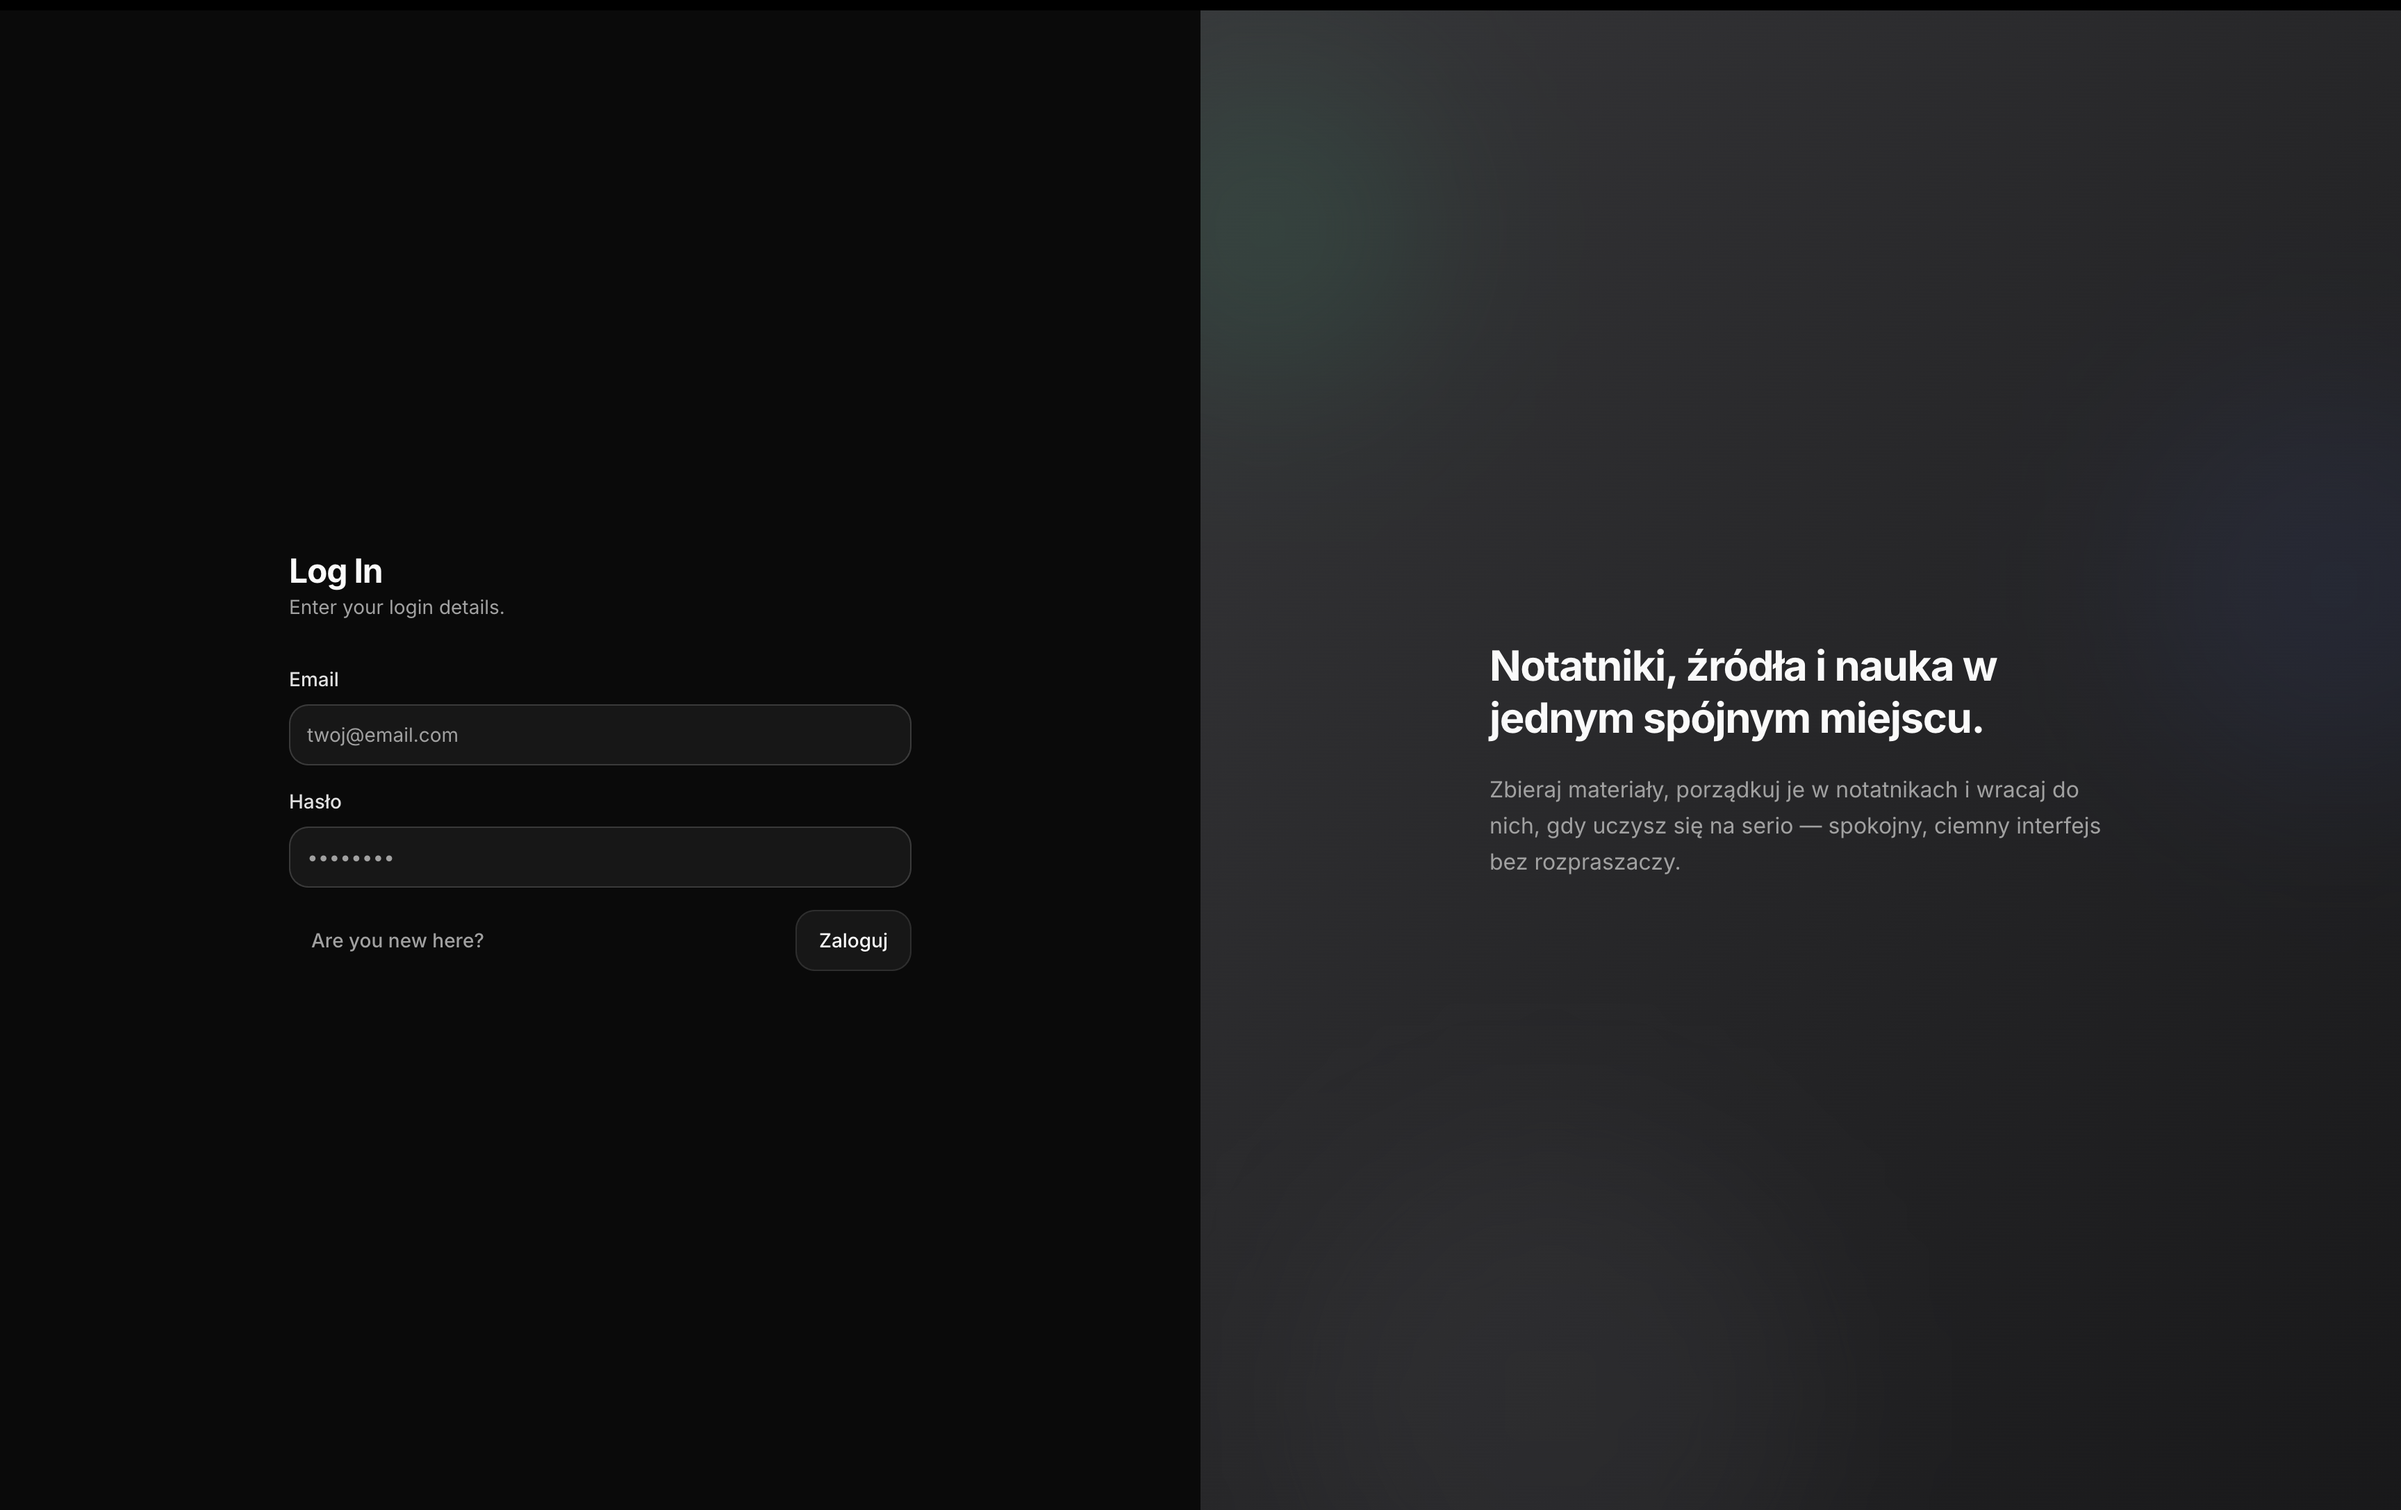
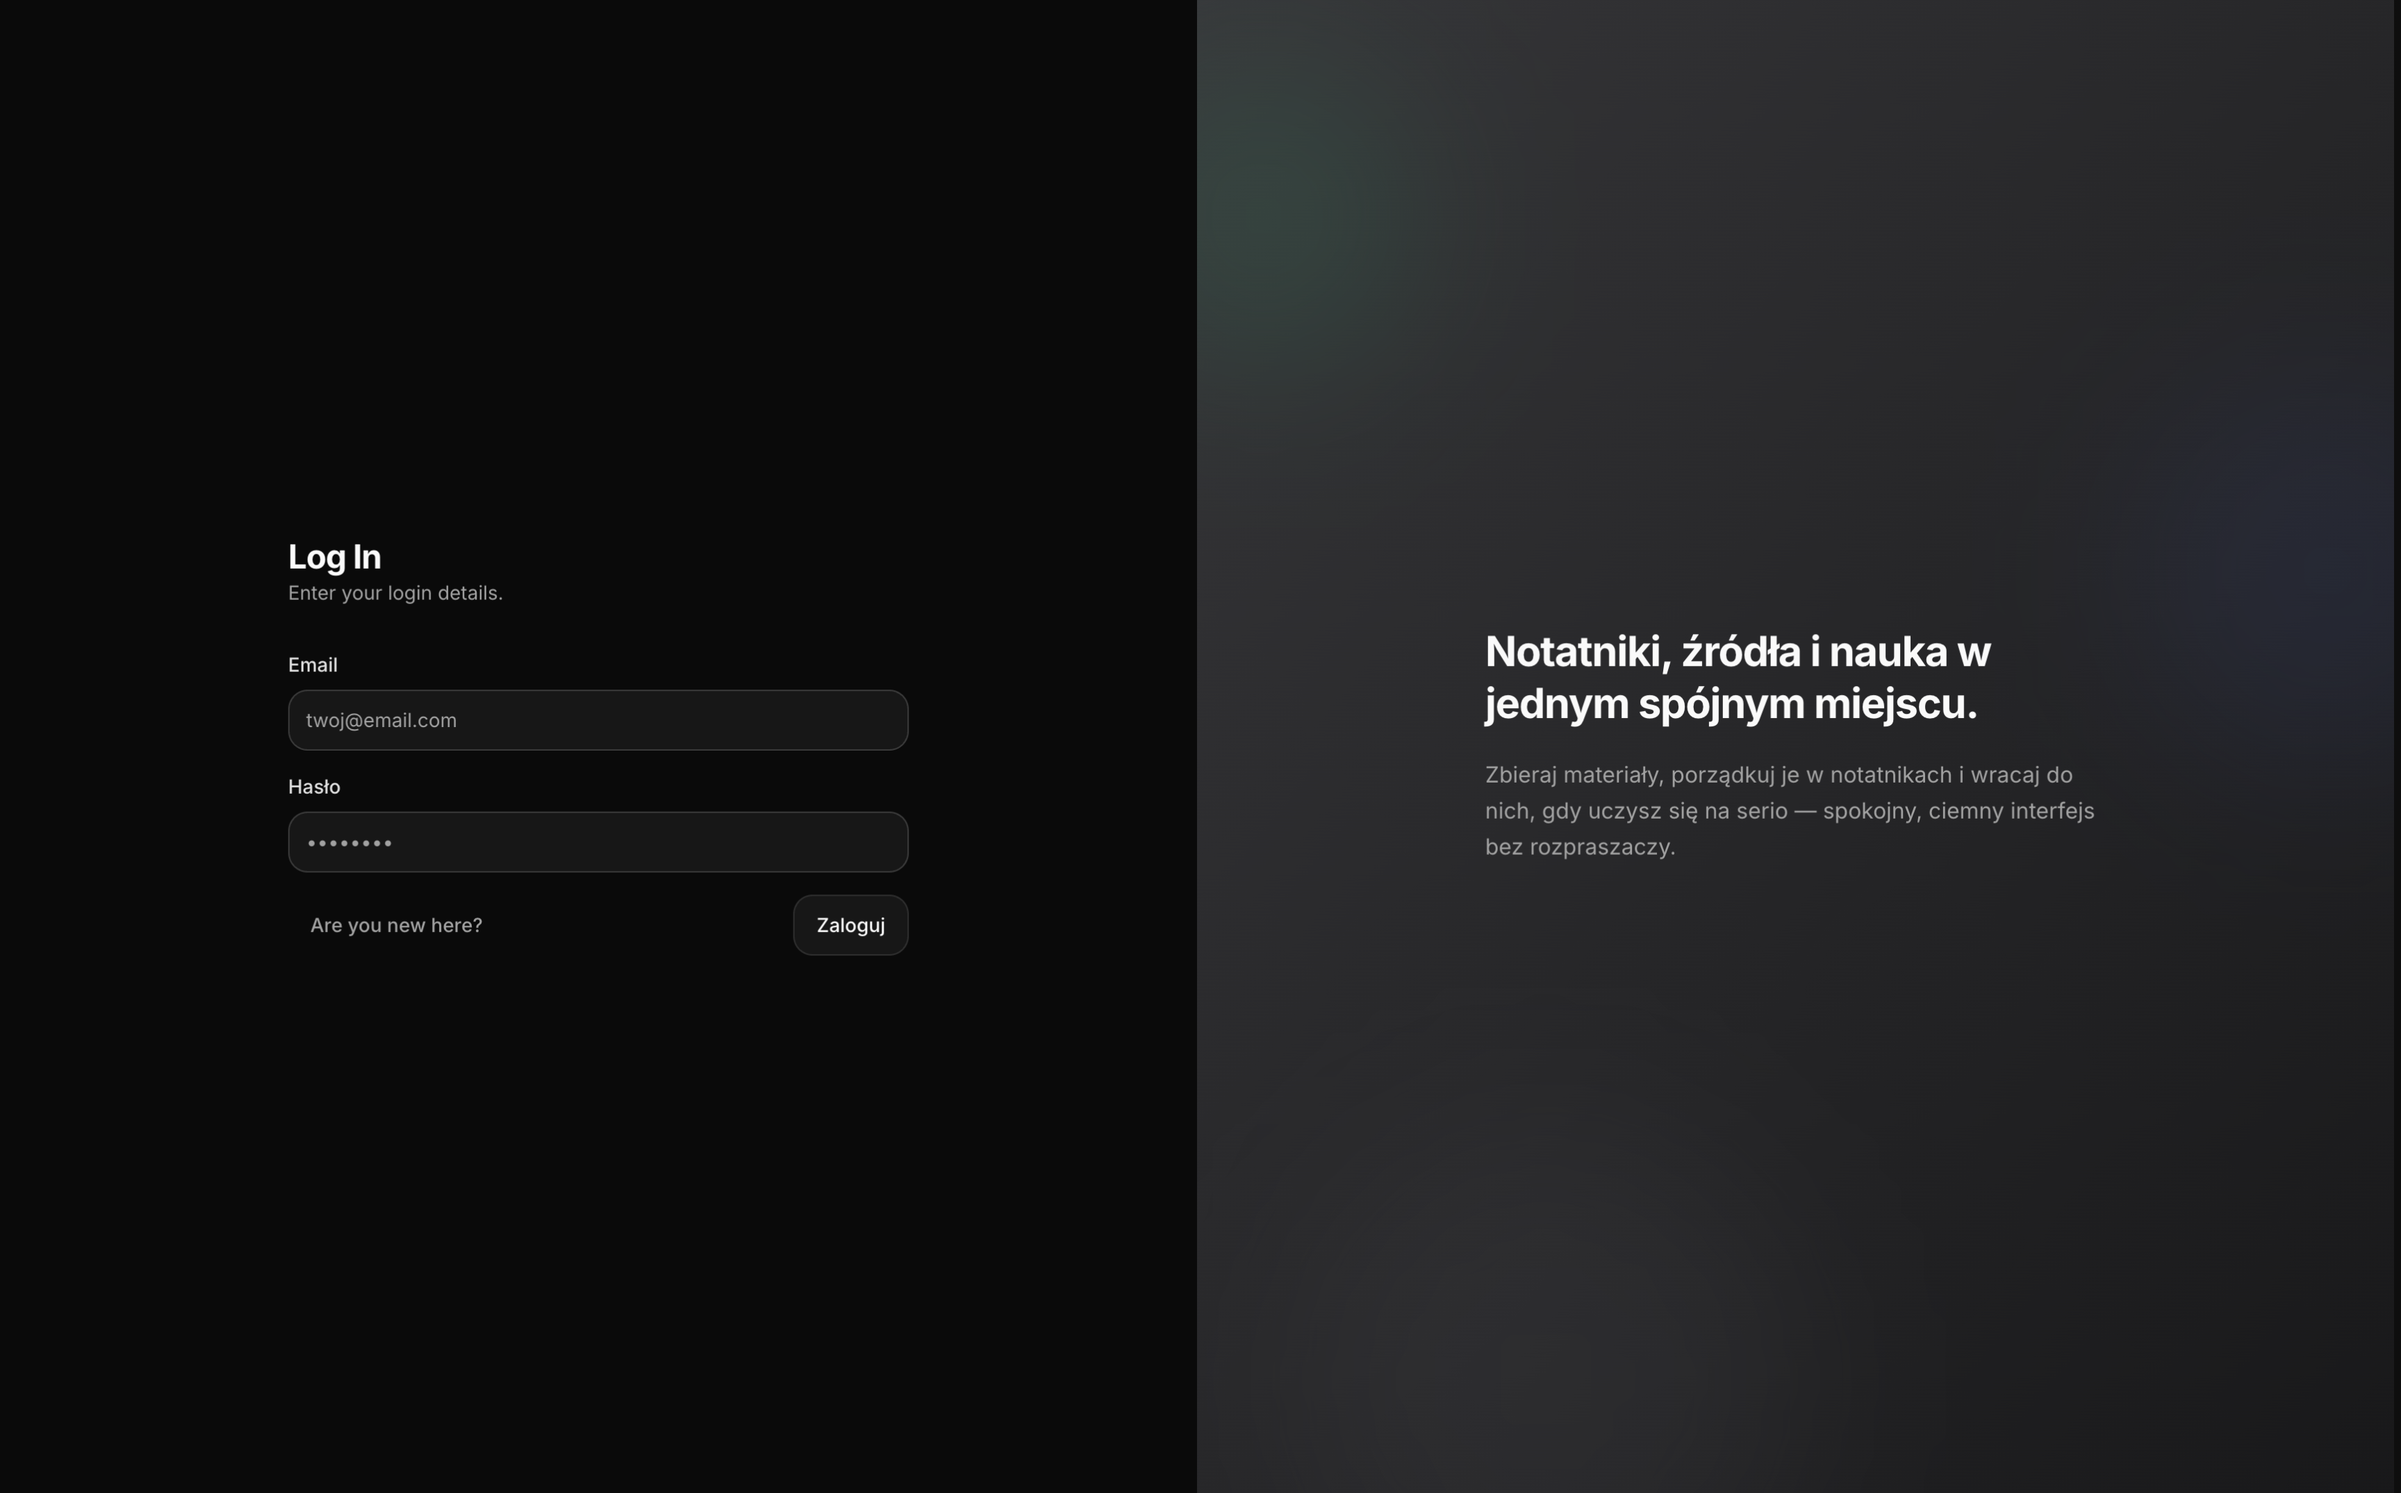
styling fixes

diff --git a/src/app/globals.css b/src/app/globals.css
@@ -2,6 +2,12 @@
 @import "tw-animate-css";
 @import "shadcn/tailwind.css";
 
+@property --page-glow {
+  syntax: "<color>";
+  inherits: true;
+  initial-value: #ffbe25;
+}
+
 @custom-variant dark (&:is(.dark *));
 
 @theme inline {
@@ -73,6 +79,7 @@
   html {
     @apply font-sans scroll-smooth antialiased;
     color-scheme: light;
+    transition: --page-glow 0.9s cubic-bezier(0.16, 1, 0.3, 1);
   }
 
   html.dark {
@@ -84,7 +91,7 @@
     background-image:
       radial-gradient(
         ellipse 80% 50% at 50% -20%,
-        color-mix(in srgb, var(--page-glow) 8%, transparent),
+        color-mix(in srgb, var(--page-glow) 6%, transparent),
         transparent
       ),
       radial-gradient(
@@ -93,20 +100,6 @@
         transparent
       );
     background-attachment: fixed;
-  }
-
-  .dark body {
-    background-image:
-      radial-gradient(
-        ellipse 80% 50% at 50% -20%,
-        color-mix(in srgb, var(--page-glow) 6%, transparent),
-        transparent
-      ),
-      radial-gradient(
-        ellipse 60% 40% at 80% 10%,
-        rgba(255, 255, 255, 0.02),
-        transparent
-      );
   }
 
   ::selection {

diff --git a/src/data/projects/lerni.ts b/src/data/projects/lerni.ts
@@ -3,15 +3,8 @@ import type { ProjectDetail } from "./types";
 export const lerniProject: ProjectDetail = {
   id: "lerni",
   name: "Lerni",
-  stack: [
-    "React",
-    "TypeScript",
-    "Shadcn",
-    "Supabase",
-    "Vercel",
-    "Gemini API",
-  ],
-  accent: "#f9a8d4",
+  stack: ["React", "TypeScript", "Shadcn", "Supabase", "Vercel", "Gemini API"],
+  accent: "#86efac",
   headline:
     "Osobista przestrzeń do nauki, w której źródła z internetu, AI i powtórki spotykają się w jednym spójnym miejscu.",
   intro: [
@@ -20,7 +13,8 @@ export const lerniProject: ProjectDetail = {
   ],
   highlight:
     "Wreszcie uczysz się z własnych materiałów — zamiast zgadywać, co jest ważne, masz podsumowanie, chat i narzędzia do powtórek w jednym widoku.",
-  screenshotIntro: "Zobacz, jak wygląda praca z notatnikiem od logowania po fiszki i quizy:",
+  screenshotIntro:
+    "Zobacz, jak wygląda praca z notatnikiem od logowania po fiszki i quizy:",
   heroImage: {
     src: "/projects/lerni/Lerni-3.png",
     alt: "Widok roboczy notatnika Lerni z panelami źródeł, podsumowania AI i studia nauki",

diff --git a/src/app/layout.tsx b/src/app/layout.tsx
@@ -1,5 +1,6 @@
 import type { Metadata } from "next";
 import { Inter, Geist_Mono } from "next/font/google";
+import { PageGlow } from "@/components/page-glow";
 import { ThemeProvider } from "@/components/theme-provider";
 import "./globals.css";
 
@@ -26,6 +27,7 @@ export default function RootLayout({ children }: LayoutProps<"/">) {
   return (
     <html
       lang="pl"
+      data-scroll-behavior="smooth"
       className={`dark ${inter.variable} ${geistMono.variable} h-full antialiased`}
       suppressHydrationWarning
     >
@@ -33,7 +35,10 @@ export default function RootLayout({ children }: LayoutProps<"/">) {
         <script dangerouslySetInnerHTML={{ __html: themeInitScript }} />
       </head>
       <body className="min-h-full flex flex-col">
-        <ThemeProvider>{children}</ThemeProvider>
+        <ThemeProvider>
+          <PageGlow />
+          {children}
+        </ThemeProvider>
       </body>
     </html>
   );

diff --git a/src/components/page-glow.tsx b/src/components/page-glow.tsx
@@ -1,15 +1,22 @@
 "use client";
 
 import { useEffect } from "react";
+import { usePathname } from "next/navigation";
+import { getProjectById } from "@/data/projects";
 
-export function PageGlow({ color }: { color: string }) {
+const DEFAULT_GLOW = "#ffbe25";
+
+export function PageGlow() {
+  const pathname = usePathname();
+
   useEffect(() => {
-    document.documentElement.style.setProperty("--page-glow", color);
+    const match = pathname.match(/^\/projects\/([^/]+)$/);
+    const color = match
+      ? (getProjectById(match[1])?.accent ?? DEFAULT_GLOW)
+      : DEFAULT_GLOW;
 
-    return () => {
-      document.documentElement.style.removeProperty("--page-glow");
-    };
-  }, [color]);
+    document.documentElement.style.setProperty("--page-glow", color);
+  }, [pathname]);
 
   return null;
 }

diff --git a/src/app/projects/[id]/page.tsx b/src/app/projects/[id]/page.tsx
@@ -1,7 +1,6 @@
 import type { Metadata } from "next";
 import { notFound } from "next/navigation";
 import Link from "next/link";
-import { PageGlow } from "@/components/page-glow";
 import { ProjectDetailView } from "@/components/project-detail";
 import { SiteFooter } from "@/components/site-footer";
 import { SiteHeader } from "@/components/site-header";
@@ -43,7 +42,6 @@ export default async function ProjectPage({ params }: ProjectPageProps) {
 
   return (
     <div className="flex min-h-full flex-1 flex-col">
-      <PageGlow color={project.accent} />
       <SiteHeader />
       <main className="flex-1 px-5 py-10 md:px-8 md:py-16">
         {detail ? (

diff --git a/src/data/projects/flowboard.ts b/src/data/projects/flowboard.ts
@@ -4,7 +4,7 @@ export const flowboardProject: ProjectDetail = {
   id: "flowboard",
   name: "Flowboard",
   stack: ["React", "TypeScript", "Zustand", "Supabase", "Vercel", "Jest"],
-  accent: "#7dd3fc",
+  accent: "#f9a8d4",
   headline:
     "Osobisty kanban z własnymi tablicami, kolumnami i AI, które rozbija zadania na konkretne kroki do wykonania.",
   intro: [

diff --git a/src/data/portfolio.ts b/src/data/portfolio.ts
@@ -2,7 +2,7 @@ export const profile = {
   name: "Adam Bien",
   firstName: "Adam",
   role: "Frontend Developer",
-  location: "Warszawa, Polska",
+  location: "Wrocław, Polska",
   email: "adam@example.com",
   github: "https://github.com",
   linkedin: "https://linkedin.com",
